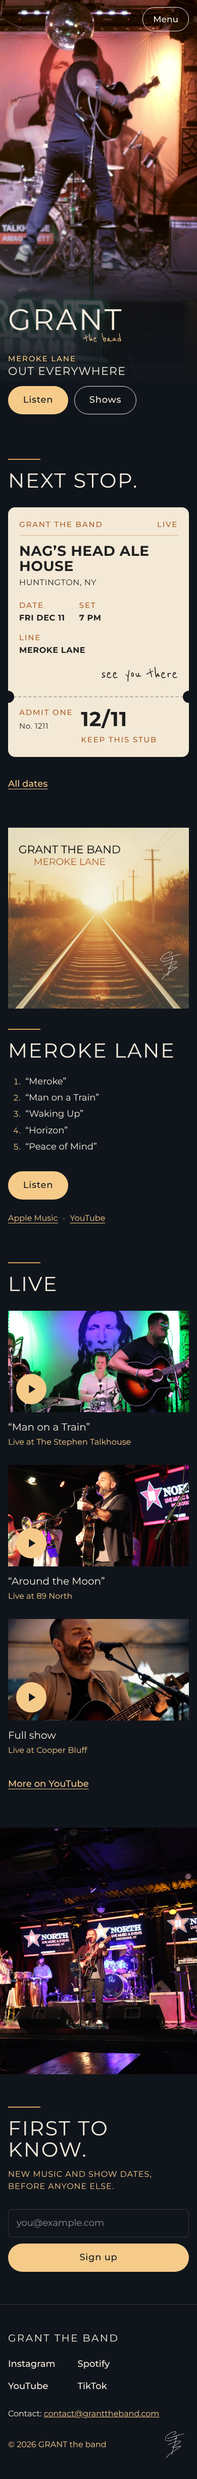
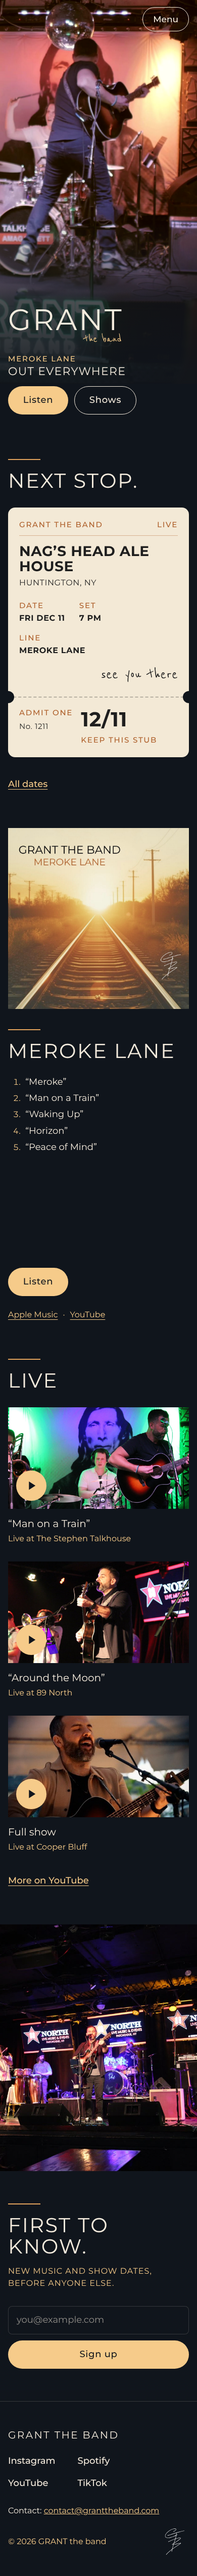
Home: Spotify player for Meroke Lane in the Music section
Injected near the viewport only, tracklist as the fallback. Not on /now.

Claude-Session: https://claude.ai/code/session_01W6jjmem6fid2ThtCrqmyVk

diff --git a/src/data/site.ts b/src/data/site.ts
@@ -7,6 +7,8 @@ export const SITE_URL = 'https://granttheband.com';
 export const links = {
   spotify: 'https://open.spotify.com/artist/7lsyuqqd27UuWS2mcYnSZe', // artist page: footer, socials
   merokeLaneSpotify: 'https://open.spotify.com/album/6sBrvYJHa66nYqVTg6bNa2', // the EP: every "Listen" button
+  // Spotify player for the EP on home (dark theme). Loaded only near the viewport, never on /now.
+  merokeLaneEmbed: 'https://open.spotify.com/embed/album/6sBrvYJHa66nYqVTg6bNa2?theme=0' as string | null,
   youtube: 'https://www.youtube.com/@GRANTtheband',
   instagram: 'https://www.instagram.com/grant_theband',
   tiktok: 'https://www.tiktok.com/@granttheband',

diff --git a/CLAUDE.md b/CLAUDE.md
@@ -23,7 +23,7 @@ Conversions, in priority order:
 - Netlify Forms for the booking form (no backend)
 - Email signup: Kit. Our own styled form (`Signup.astro`, every variant) POSTs via fetch to `https://app.kit.com/forms/10116057/subscriptions` (field `email_address`, form uid 2dc4489060). No Kit script, no Kit styling. Success: "Check your inbox to confirm." Error: "That didn’t go through. Try again." Without JS it falls back to a plain POST to Kit.
 - YouTube clips as click-to-load facades (lite-youtube or equivalent, pinned version). No iframes on first load.
-- No Instagram feed embed. No trackers beyond Cloudflare Web Analytics: `cloudflareAnalyticsToken` in `site.ts`, beacon script on production only, nothing until the token is set.
+- No Instagram feed embed. The one third-party embed on first scroll is the Spotify player in the Music section (Noah's call; it sets Spotify's own cookies once it loads). No trackers beyond Cloudflare Web Analytics: `cloudflareAnalyticsToken` in `site.ts`, beacon script on production only, nothing until the token is set.
 - Keep dependencies minimal. Pin versions.
 
 ## Pages (4, plus a 404)
@@ -146,7 +146,10 @@ Use this copy as written. Typographic apostrophes and quotes. Never use em dashe
    - Buttons: "Listen" (to Meroke Lane on Spotify) and "Shows" (to `/shows`), under the label.
    - No tagline, no location line, no sub paragraph.
 2. Next stop (only when there are upcoming dates): title "NEXT STOP.", one ticket per show, link to `/shows`.
-3. Music (`#music`): cover art, title "MEROKE LANE" (heading only, no gold line), the EP tracklist as a quiet numbered list in Spotify order: 1. “Meroke” (confirmed) 2. “Man on a Train” 3. “Waking Up” 4. “Horizon” 5. “Peace of Mind”, one gold primary "Listen" button (the Spotify EP), then one row of small text links: Apple Music · YouTube. Text block vertically centered against the cover art.
+3. Music (`#music`): cover art, title "MEROKE LANE" (heading only, no gold line), the Spotify player for the EP (`links.merokeLaneEmbed`, dark theme, 352px tall, full width of the text column, title "Listen to Meroke Lane on Spotify", no autoplay), one gold primary "Listen" button (the Spotify EP), then one row of small text links: Apple Music · YouTube. Text block vertically centered against the cover art.
+   - The player is injected only when the section is within ~400px of the viewport (IntersectionObserver), with `loading="lazy"`, after a no-cors check that Spotify is reachable. Its 352px is reserved so nothing shifts. Hero and first paint load nothing from Spotify.
+   - Fallback (JS off, Spotify blocked or not loaded in 10s): the numbered tracklist in Spotify order: 1. “Meroke” (confirmed) 2. “Man on a Train” 3. “Waking Up” 4. “Horizon” 5. “Peace of Mind”.
+   - Home only. Never on /now (keep it instant).
 4. Video (`#video`): title "LIVE". Three clip cards (YouTube IDs in `site.ts`, from ASSETS.md), song in quotes plus a gold line: “Man on a Train” / Live at The Stephen Talkhouse; “Around the Moon” / Live at 89 North; Full show (no quotes, not a song) / Live at Cooper Bluff. Link "More on YouTube".
 5. Photo band: full-bleed band photo, no text. Hidden until the photo exists.
 6. Newsletter (`#newsletter`): title "FIRST TO KNOW.", gold line "New music and show dates, before anyone else." Email field + "Sign up". Same copy everywhere the signup appears (except the /shows empty state's inline "Get them first.").
